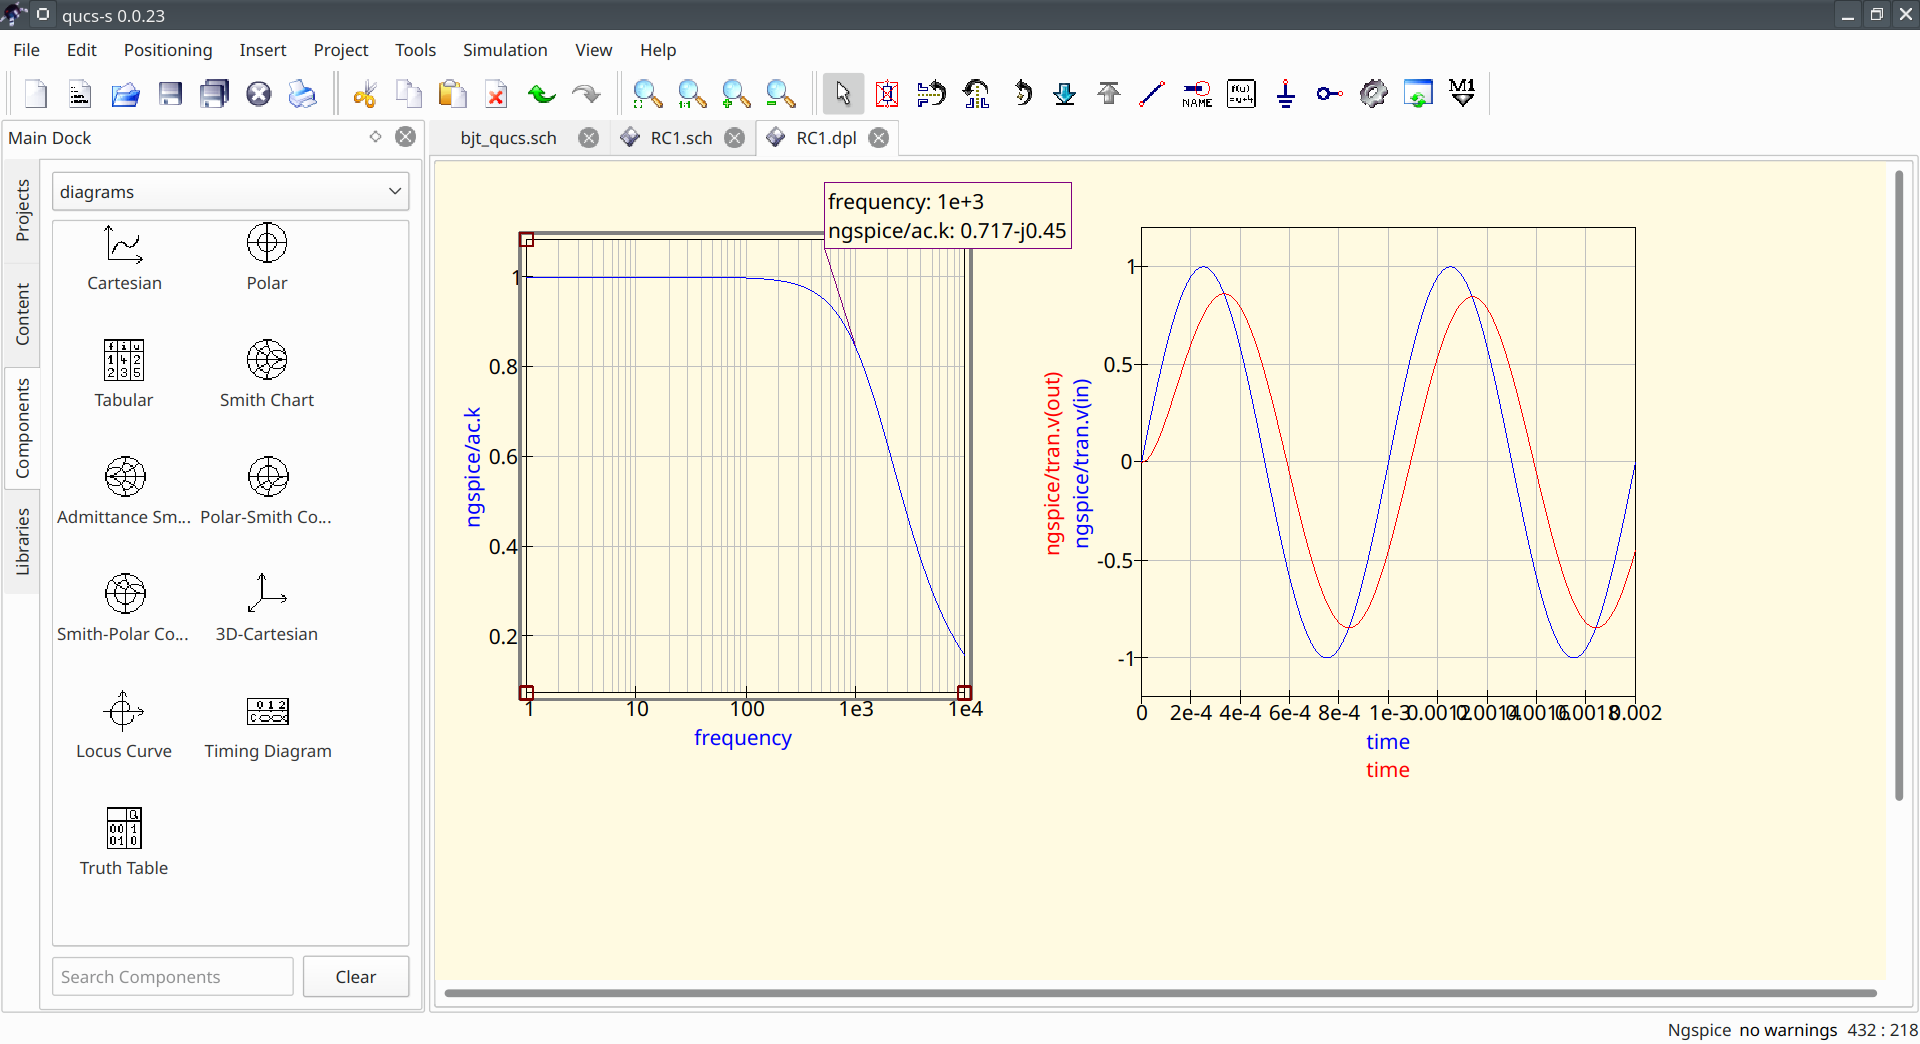
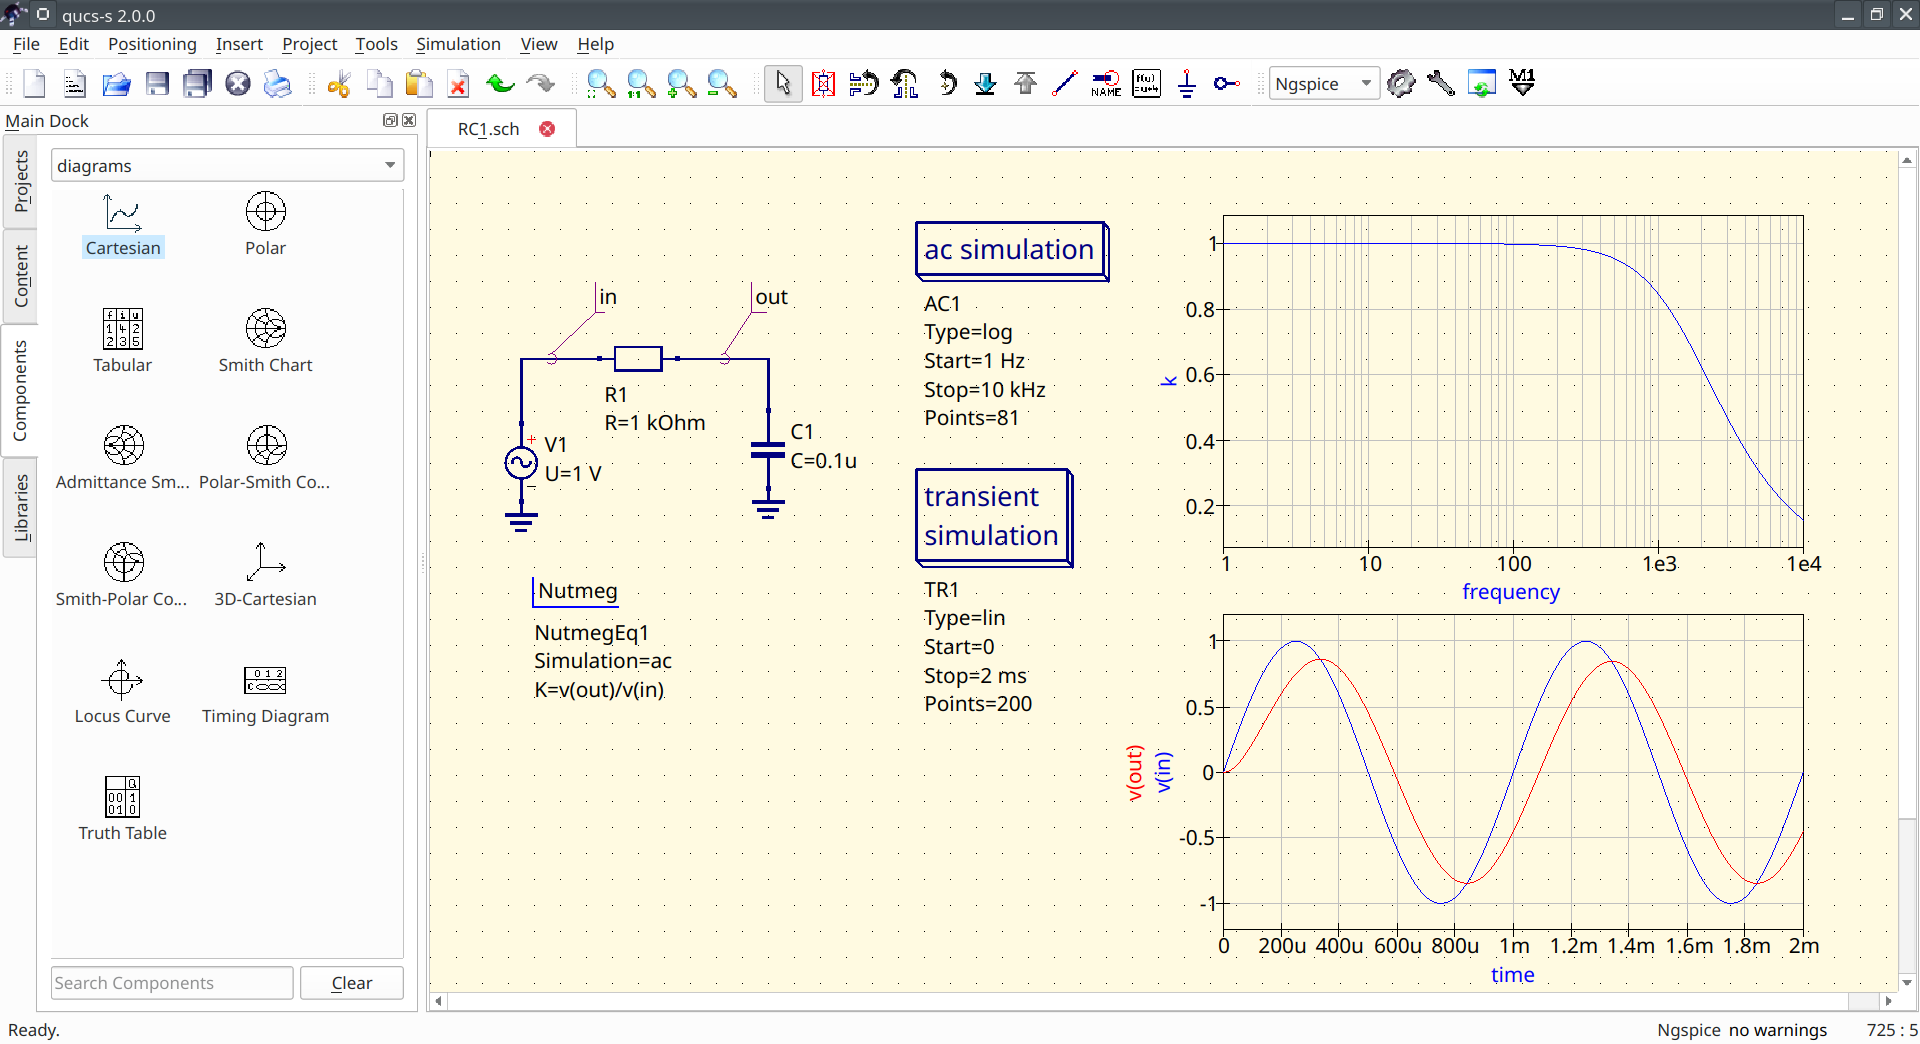
Add note on placement diagrams on schematic

diff --git a/qucs_s_tutorial.tex b/qucs_s_tutorial.tex
@@ -132,7 +132,7 @@ Let's simulated an RC-circuit using Qucs-S with Ngspice backend. The schematic i
  
  \item \textbf{Step 6:} simulate the schematic. Press the \textit{Simulation} \verb|->| \textit{Simulate} or press the F2 hotkey on the keyboard. The dialog window containing the simulator log messages will appear shortly (Fig. \ref{fig:sim_dlg}). This dialog window contains the simulation console where the messages from the Ngspice are shown. 
  
- It should report that the simulation finished without errors. If you see error messages check your schematic and application settings. After the Ngspice reports about the finished simulation, close this window clicking the \emph{Exit} button. The Qucs-S will automatically switch from schematic to the display page where diagrams could be placed. It is also possible to save the netlist file from this dialog
+ It should report that the simulation finished without errors. If you see error messages check your schematic and application settings. After the Ngspice reports about the finished simulation, close this window clicking the \emph{Exit} button. Now the diagrams could be added on schematic field. It is also possible to save the netlist file from this dialog
  .
   \begin{figure}[!ht]
   \begin{center}
@@ -142,13 +142,13 @@ Let's simulated an RC-circuit using Qucs-S with Ngspice backend. The schematic i
   
 \end{figure}
 
-\item \textbf{Step 7:} place diagrams on the display page (Fig. \ref{fig:rc_dpl}). We need two cartesian diagrams for magnitude response and transient waveforms. The diagrams are also special components that could be found in the \emph{diagrams} category. The traces could be selected in the special diagram properties dialog (Fig. \ref{fig:diagr_dlg}). Select the \verb|ac.k| traces for one diagram and \verb|tran.v(in)| and \verb|tran.v(out)| traces for another diagram. It is also possible to setup the axis limits and type and the color scheme for the diagram. Select logarithmic X-axis for the magnitude response graph using the settings in the \emph{Properties} tab. The markers could be placed on graphs using the button (9) from the toolbar (Fig. \ref{fig:mainwin}). The position of the marker could be adjiusted using the arrow keys on the keyboard. 
+\item \textbf{Step 7:} place diagrams on the schematic (Fig. \ref{fig:rc_dpl}). We need two cartesian diagrams for magnitude response and transient waveforms. The diagrams are also special components that could be found in the \emph{diagrams} category. The traces could be selected in the special diagram properties dialog (Fig. \ref{fig:diagr_dlg}). Select the \verb|ac.k| traces for one diagram and \verb|tran.v(in)| and \verb|tran.v(out)| traces for another diagram. It is also possible to setup the axis limits and type and the color scheme for the diagram. Select logarithmic X-axis for the magnitude response graph using the settings in the \emph{Properties} tab. The markers could be placed on graphs using the button (9) from the toolbar (Fig. \ref{fig:mainwin}). The position of the marker could be adjiusted using the arrow keys on the keyboard. 
 
   \begin{figure}[!ht]
   \begin{center}
     \includegraphics[width=\textwidth]{img/rc_dpl.png}
   \end{center}
-  \caption{Display page with two plots} \label{fig:rc_dpl}
+  \caption{Schematic with two diagrams added} \label{fig:rc_dpl}
   \end{figure}
   
     \begin{figure}[!ht]
